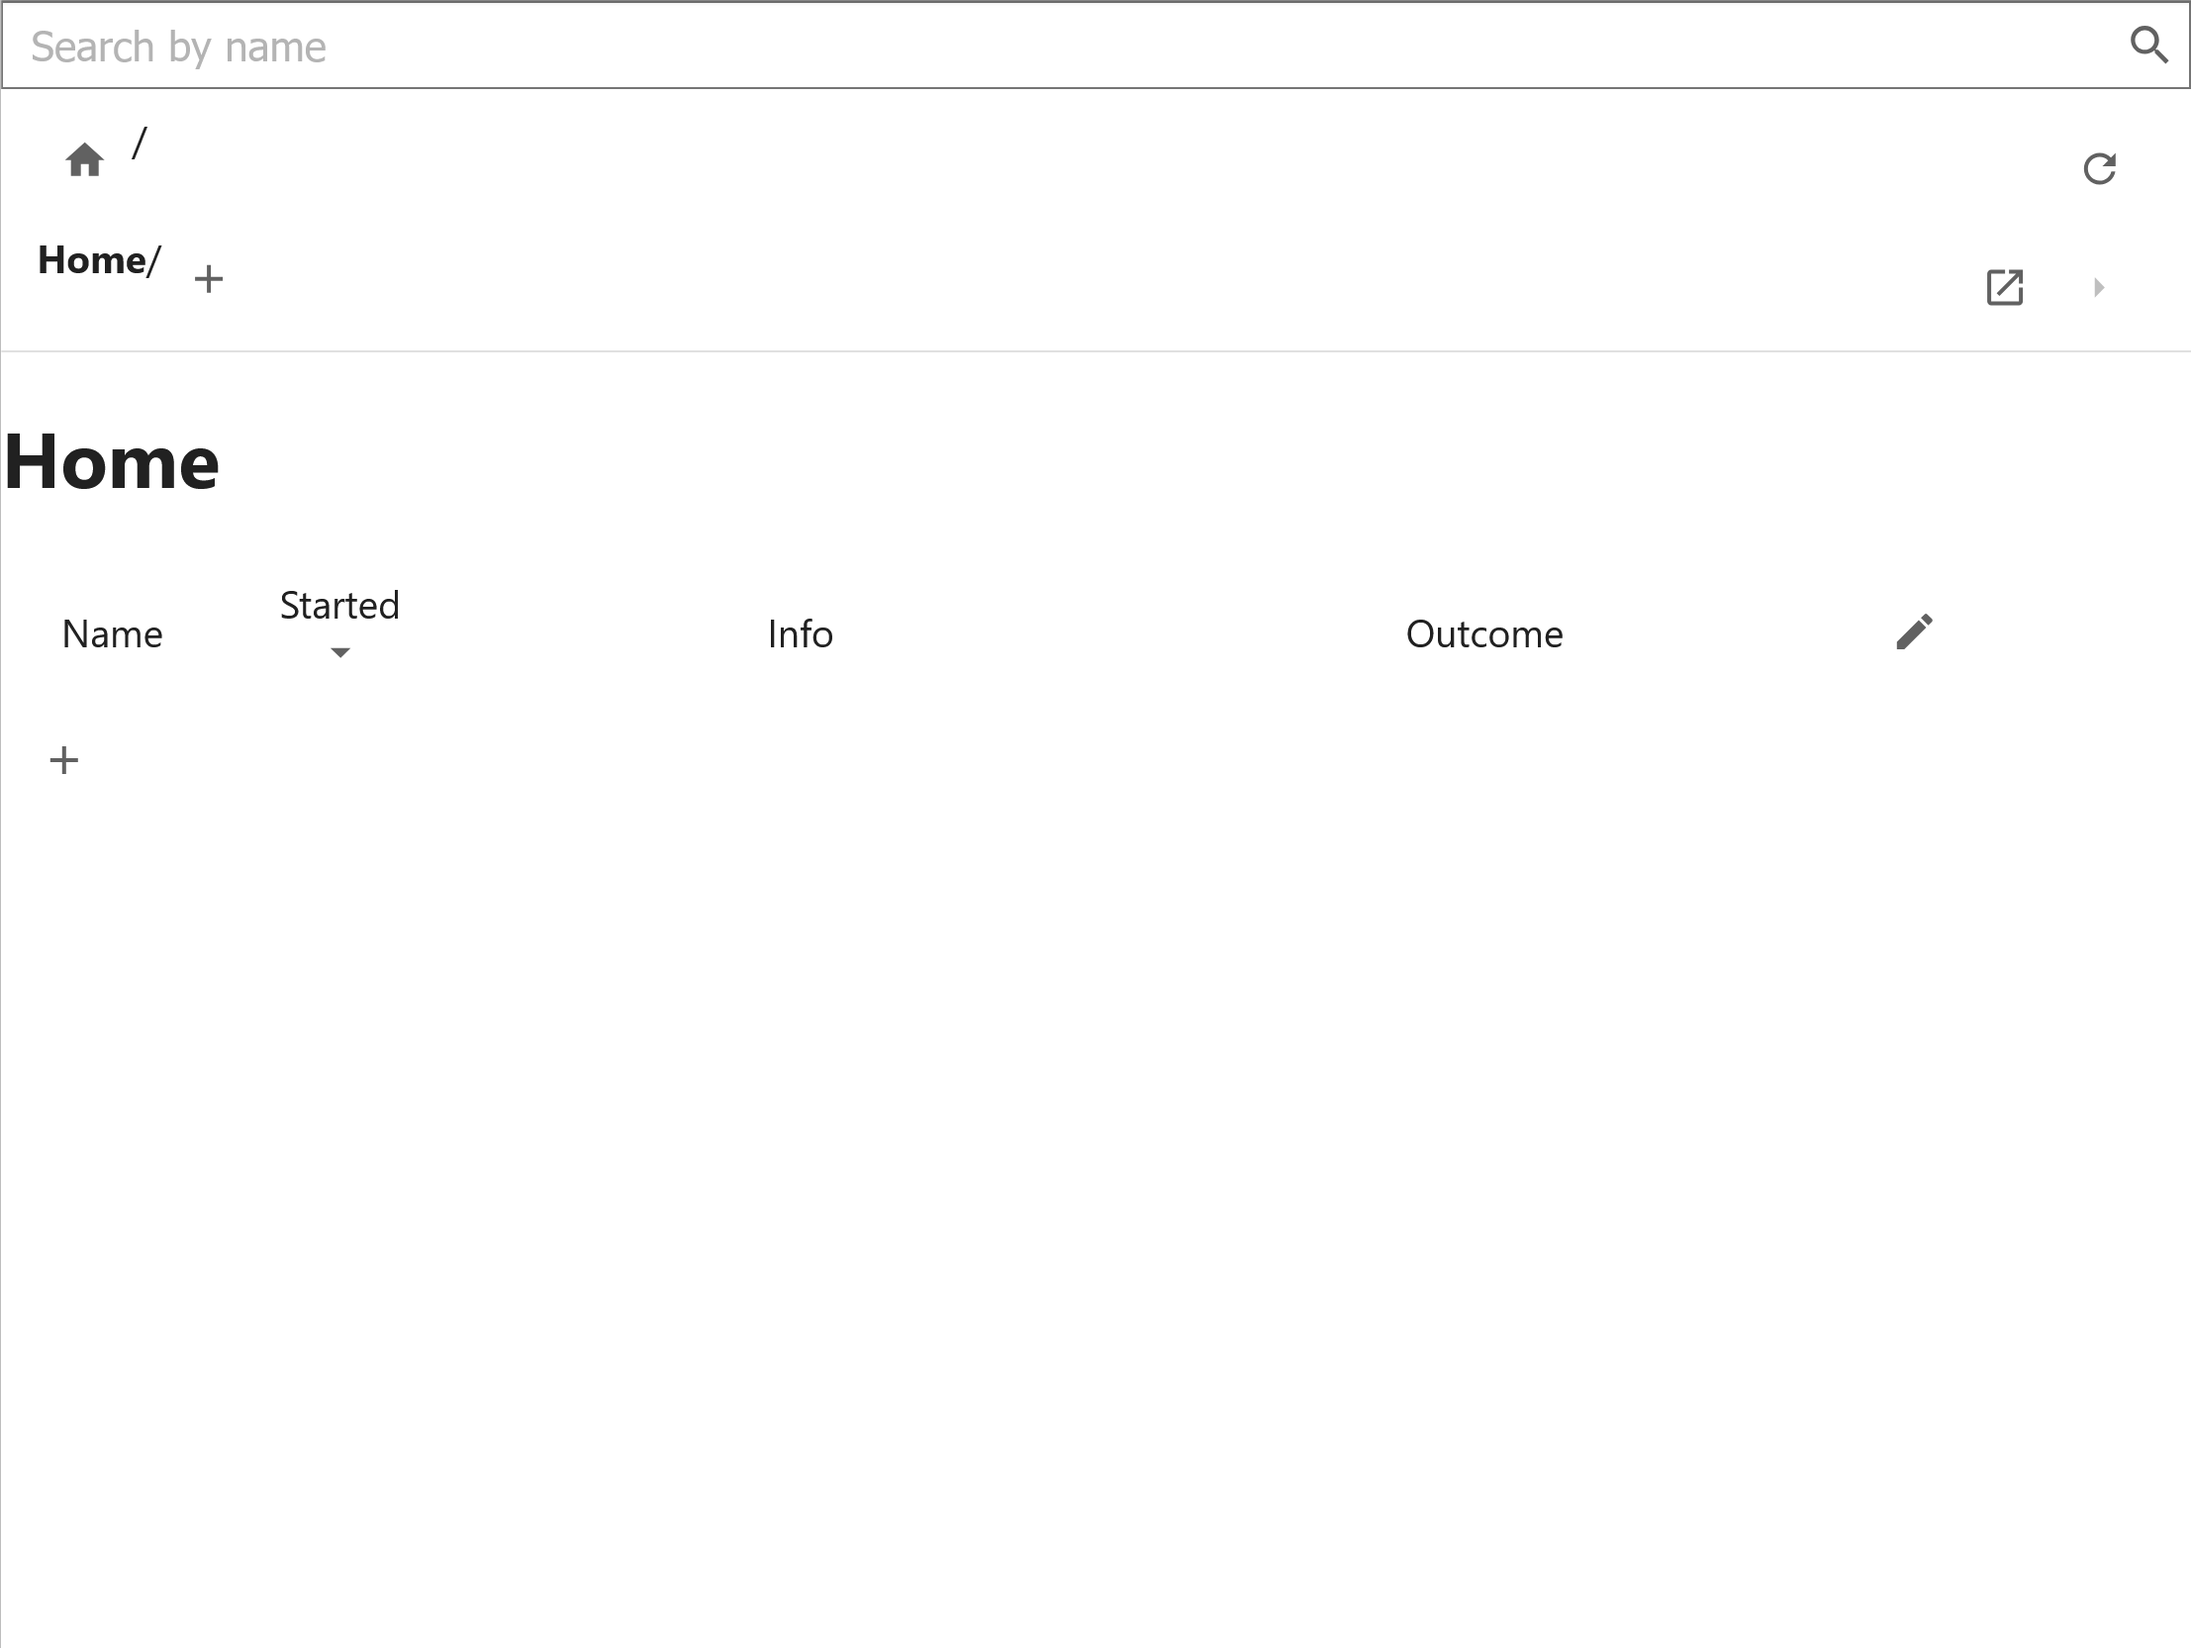
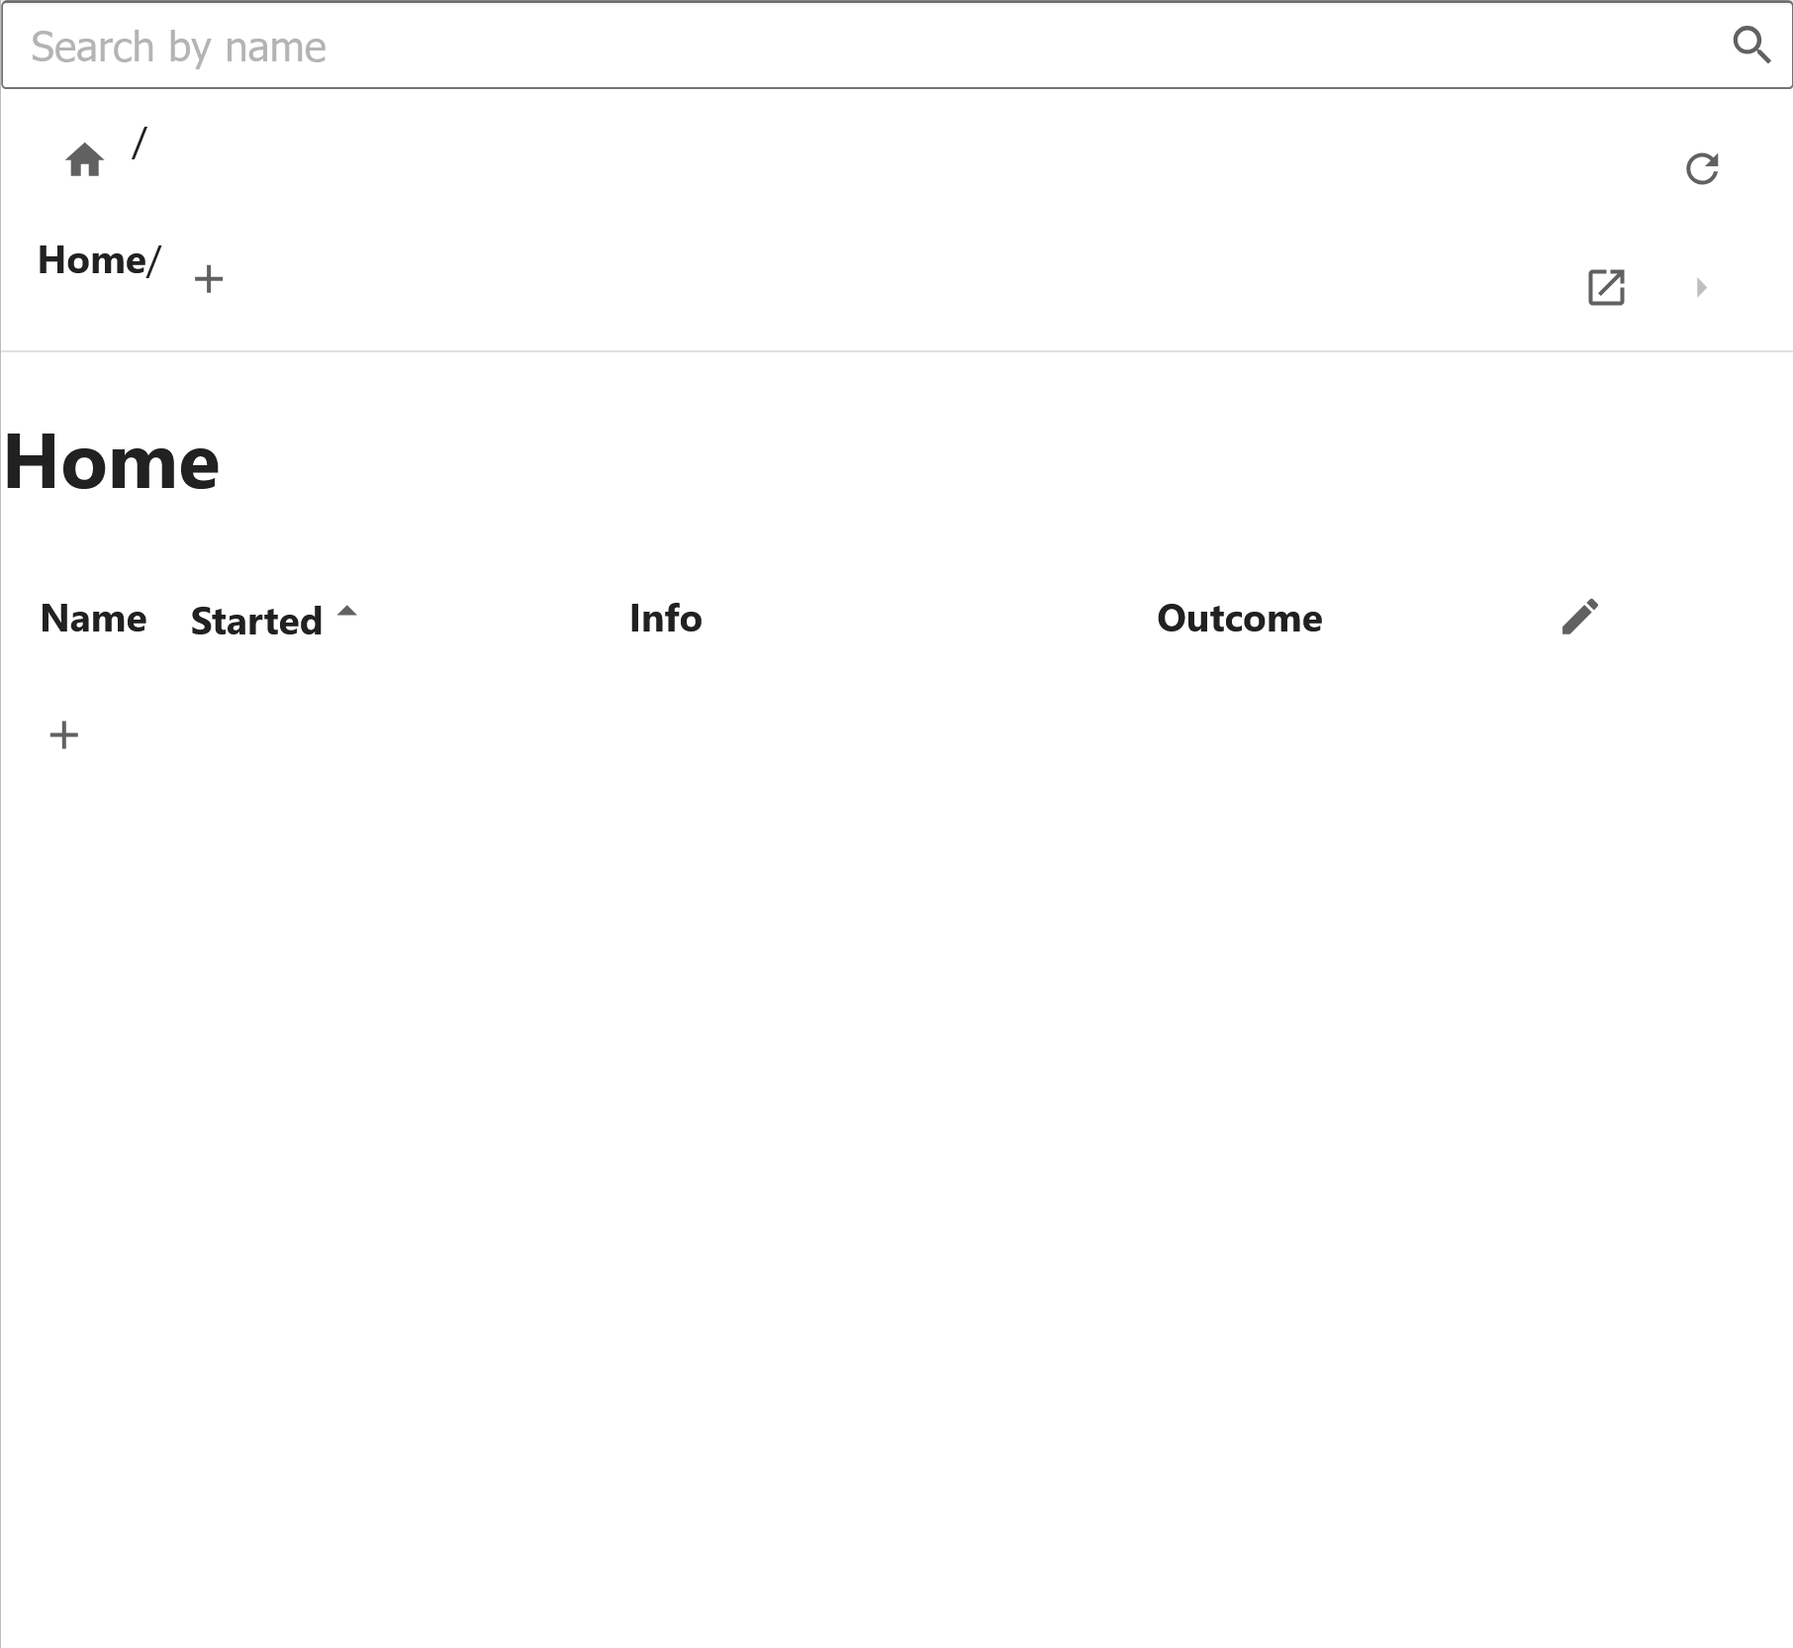
updated docs for improved css

diff --git a/doc_src/docs/0.2.x to 0.3.x.md b/doc_src/docs/0.2.x to 0.3.x.md
@@ -49,3 +49,40 @@ This made it challenging to distinguish when a Tier did or did not have a Notebo
 In version `0.3.x` `TierBase` has been split into `NotebookTierBase` and `FolderTierBase`. Depending if your Tier has a Notebook or just a folder 
 associated with it, you should use the new baseclass.
 
+## Home has no Notebook
+
+In versions prior to `0.3.x` the `Home` tier had a notebook associated with it. This was in part because these used the `ipygui` and the `Home` header acted a bit like the Cassini Browser. If you require a `Home` notebook, you should create a custom subclass of the existing `Home` class.
+
+For example:
+
+```python
+from cassini import Project, NotebookTierBase, WorkPackage, Experiment, Sample, DataSet
+
+class MyHome(NotebookTierBase):
+    pretty_type = "Home"
+    
+    @property
+    def name(self):
+        return self.pretty_type
+        
+    @property
+    def folder(self):
+        return self.project.project_folder / (self.child_cls.pretty_type + "s")
+        
+    @property
+    def file(self):
+        return self.project.project_folder / 'Home.ipynb'
+    
+    @property
+    def meta_file(self):  # notebook tiers _have_ to have meta and highlights now.
+        return self.project.project_folder / 'home-meta.json'
+        
+    @property
+    def highlights_file(self):
+        return self.project.project_folder / 'home-hlts.json'
+
+project = Project(hierarchy=[MyHome, WorkPackage, Experiment, Sample, DataSet], project_folder=__file__)
+
+if __name__ == '__main__':
+    project.launch()
+```

diff --git a/doc_src/docs/contributing/jupyter_cassini.md b/doc_src/docs/contributing/jupyter_cassini.md
@@ -116,3 +116,9 @@ React components can be used. Ideally these should be function components. React
 Generally React components should not take models as props.
 
 React components will need to be wrapped in Lumino ReactWidgets. These should act as a go-between for the model and the React Component. They should provide handlers that can update the model, and render() should provide the appropriate properties of the model to pass to the React Component as props.
+
+## Open API Spec
+
+To ensure the `jupyter_cassini_server` API is synchronised with the frontend, we use an [Open API specification](https://learn.openapis.org/introduction.html), found in `openapi.yaml`, to define the requests and responses the server uses. We then use [Data Model Code Generator](https://koxudaxi.github.io/datamodel-code-generator/) and [Open API Typescript](https://openapi-ts.dev/introduction) to automatically generate both pydantic models (server-side) and typescript types (browser-side) to strictly check the contents of requests and responses against this schema.
+
+When making changes to the API, make these first to the `openapi.yaml` file, then you can re-build the schema using `jlpm build-schema`.

diff --git a/doc_src/docs/index.md b/doc_src/docs/index.md
@@ -44,7 +44,10 @@ This will setup Cassini and launch Jupyter Lab, with your new project configured
 
 In Jupyter Lab, open the launcher, scroll to the Cassini section and open the browser.
 
-Create your first WorkPackage by clicking the little plus button in the empty table.
+![browser button](./static/cassini-launcher.png){ width="100px" }
+
+Create your first WorkPackage by clicking the little plus (<svg xmlns="http://www.w3.org/2000/svg" width="16" viewBox="0 0 24 24" data-icon="ui-components:add" class=""><g xmlns="http://www.w3.org/2000/svg" class="jp-icon3" fill="#616161"><path d="M19 13h-6v6h-2v-6H5v-2h6V5h2v6h6v2z"></path></g></svg>
+) button in the empty table.
 
 ## What Next
 
@@ -55,7 +58,9 @@ A walkthrough of Cassini's features can be found here:
 <i> - Note these binder notebooks can take a while to launch, so maybe click then go grab a cup off tea/ coffee!</i>
 </div>
 
-Don't want to wait/ prefer reading? - head to the [User Guide](./user-guide/installation-setup.md).
+Don't want to wait/ prefer reading? - head to the [Tutorial](./user-guide/installation-setup.md).
+
+[Next](./user-guide/installation-setup.md){ .md-button align=right }
 
 
 

diff --git a/doc_src/docs/user-guide/creating-tiers.md b/doc_src/docs/user-guide/creating-tiers.md
@@ -24,7 +24,7 @@ To add a new `WorkPackage` to `Home`, click the plus button in the Tier Table:
 
 This will open the New Child Dialogue:
 
-![]("../static/new-child-dialogue.png"){ width="300px" }
+![](../static/new-child-dialogue.png){ width="300px" }
 
 ### New Child Dialogue Fields
 
@@ -101,6 +101,6 @@ The navigator is there to help you look around your project, but the hard work o
 !!!Note
     `DataSets` don't have notebooks, they're just folders for you to put data in. Clicking open will open your file explorer at the `DataSet`'s directory - this is incredibly useful for pasting in data!
 
-Next learn how to use cassini within a notebook
+Next learn how to use cassini within a notebook.
 
 [Next](within-the-notebook.md){ .md-button align=right }

diff --git a/doc_src/docs/user-guide/meta.md b/doc_src/docs/user-guide/meta.md
@@ -45,7 +45,7 @@ When values have been set, you can access them python-side with:
 'value'
 ```
 
-Validation of meta-values is provided by Pydantic. More advanced serialisation and deserialisation can be achieved using `MetaAttr`.
+Validation of meta-values is provided by Pydantic. More advanced serialisation and deserialisation can be achieved using [`MetaAttr`](../customization.md#meta-attributes-metaattr).
 
 ## In the Cassini Browser
 

diff --git a/doc_src/docs/customization.md b/doc_src/docs/customization.md
@@ -223,3 +223,5 @@ You will notice that all meta values are optional, this is a requirement of Cass
 ## Extensions
 
 If you've come up with a great set of customizations, you might want to turn them into [an extension](./extensions/development.md).
+
+[Next](./extensions/development.md){ .md-button }
